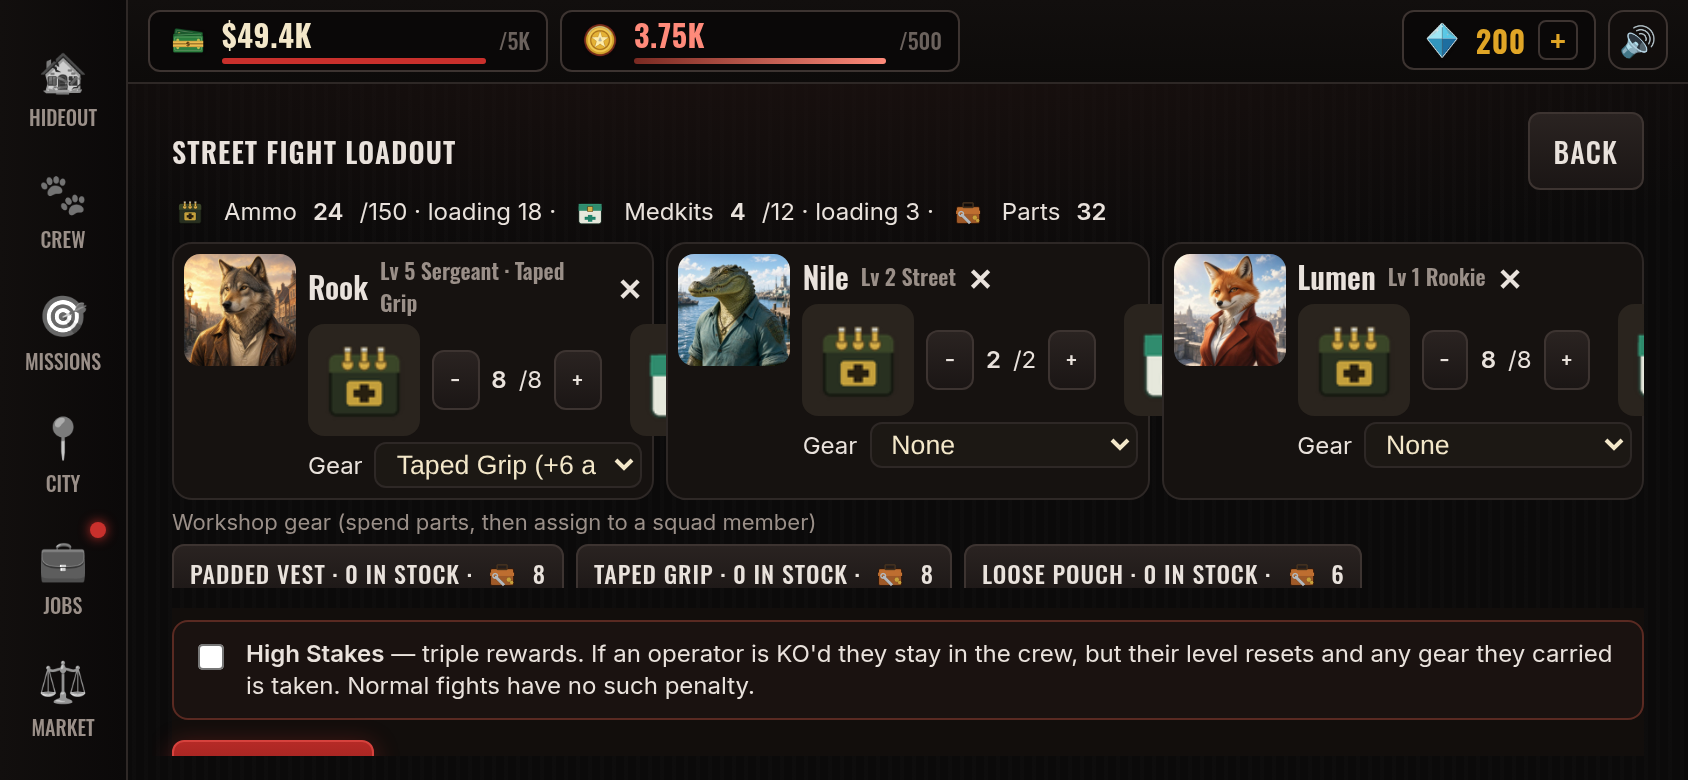
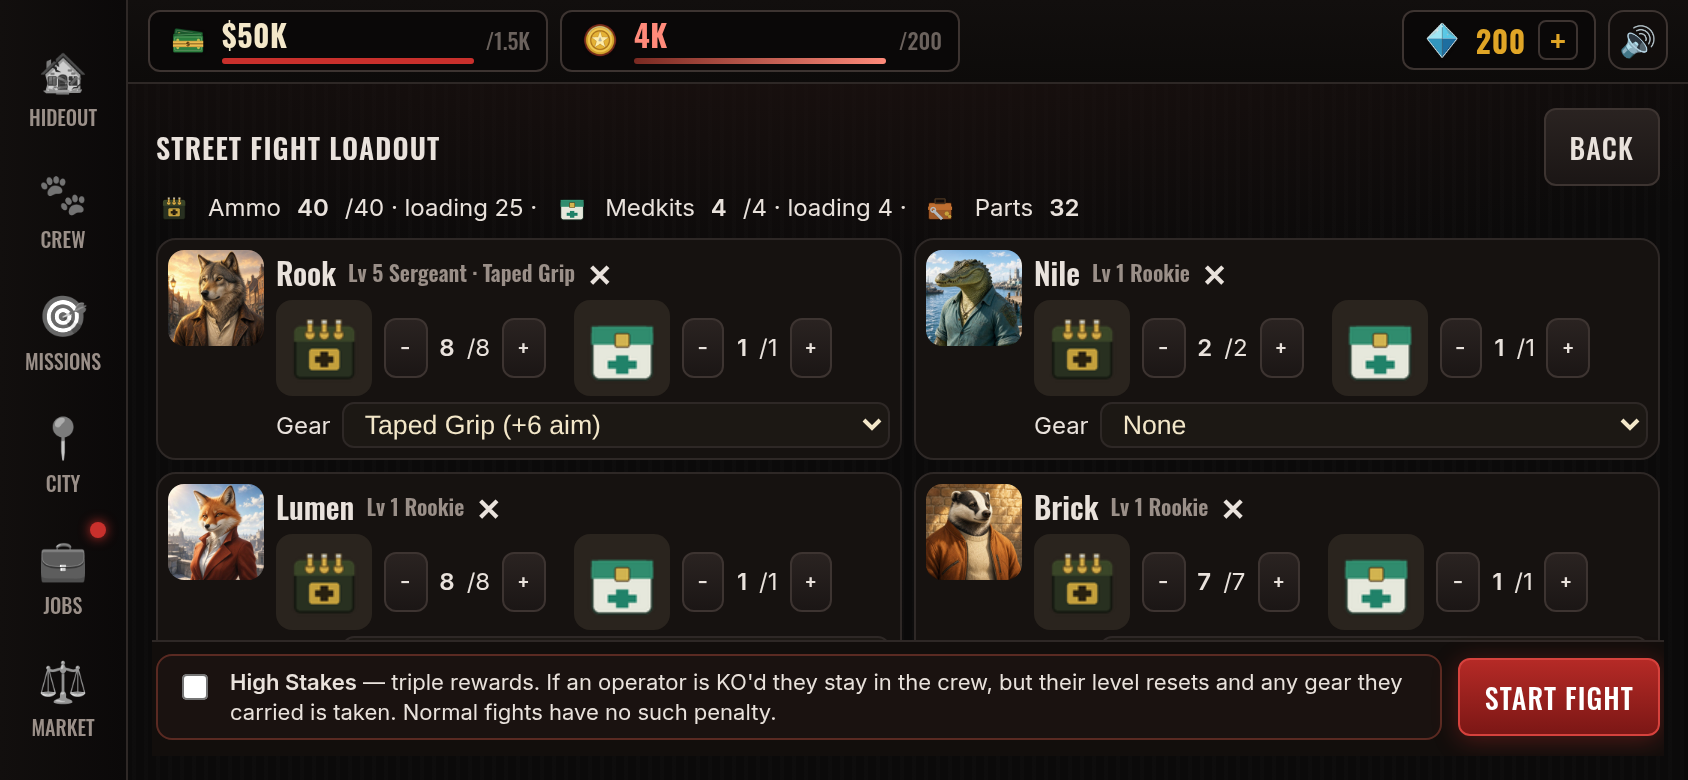
Fix loadout overflow on landscape phones
Pin the High Stakes / Start fight bar and scroll the operator and Workshop area so the action button stays fully on screen at 844x390 and 740x360. Two-column cards keep ammo and medkit controls from clipping off the right edge.

diff --git a/css/style.css b/css/style.css
@@ -512,19 +512,26 @@ table.stats td{padding:3px 4px;border-bottom:1px solid var(--line)}
 .hud-tr{display:flex;flex-direction:column;align-items:flex-end;gap:4px}
 
 /* v0.5 loadout, XP bars, High Stakes */
-.loadscr{padding:6px 10px 0;overflow:hidden;height:100%;display:flex;flex-direction:column;box-sizing:border-box}
-.loadstock{display:flex;flex-wrap:wrap;gap:8px;align-items:center;margin:2px 0 6px;font-size:12px;flex:none}
-.loadgrid{display:grid;grid-template-columns:repeat(3,minmax(0,1fr));gap:6px;flex:none;overflow:auto;grid-auto-rows:min-content}
-.loadslot{display:flex;gap:6px;background:#161210;border:1px solid var(--line);border-radius:10px;padding:5px;min-height:0;height:auto}
+.loadscr{height:100%;min-height:0;display:flex;flex-direction:column;overflow:hidden;box-sizing:border-box;padding:0}
+.loadbody{flex:1 1 auto;min-height:0;overflow-x:hidden;overflow-y:auto;padding:4px 2px 8px;scrollbar-width:thin}
+.loadstock{display:flex;flex-wrap:wrap;gap:8px;align-items:center;margin:2px 0 6px;font-size:12px}
+.loadgrid{display:grid;grid-template-columns:repeat(2,minmax(0,1fr));gap:6px;grid-auto-rows:min-content}
+.loadslot{display:flex;gap:6px;background:#161210;border:1px solid var(--line);border-radius:10px;padding:5px;min-width:0;min-height:0}
 .loadslot.empty{align-items:center;flex-wrap:wrap;gap:6px;min-height:72px}
-.loadslot img{width:56px;height:56px;object-fit:cover;border-radius:8px;background:#2a241e;flex:none}
-.loadslot .hn{display:flex;align-items:center;gap:6px;font-weight:600}
-.loadrow{display:flex;align-items:center;gap:6px;margin-top:3px;font-size:12px}
-.loadrow select{flex:1;min-width:0;background:#1c1814;color:var(--ink,#f3e7c9);border:1px solid var(--line);border-radius:6px;padding:2px 6px}
-.loadgear{margin:4px 0;flex:none;max-height:40px;overflow:auto}
-.loadfoot{display:flex;gap:10px;align-items:flex-start;margin-top:6px;padding:6px 0 8px;flex:none;background:#120e0c;z-index:2}
-.loadfoot .hstakes{flex:1;display:flex;gap:8px;align-items:flex-start;font-size:12px;line-height:1.35;background:#1a1210;border:1px solid #5a2a22;border-radius:8px;padding:8px}
+.loadslot img{width:48px;height:48px;object-fit:cover;border-radius:8px;background:#2a241e;flex:none}
+.loadslot .grow{min-width:0;flex:1}
+.loadslot .hn{display:flex;align-items:center;gap:6px;font-weight:600;min-width:0}
+.loadslot .hn .tiny{min-width:0;overflow:hidden;text-overflow:ellipsis;white-space:nowrap}
+.loadrow{display:flex;align-items:center;flex-wrap:wrap;gap:4px 6px;margin-top:3px;font-size:12px;min-width:0}
+.loadrow .btn.sm{flex:none;padding:2px 7px}
+.loadrow select{flex:1;min-width:0;max-width:100%;background:#1c1814;color:var(--ink,#f3e7c9);border:1px solid var(--line);border-radius:6px;padding:2px 6px}
+.loadgear{margin:6px 0 2px}
+.loadfoot{flex:none;display:flex;gap:8px;align-items:center;margin:0;padding:6px 2px max(8px,env(safe-area-inset-bottom));background:#120e0c;border-top:1px solid var(--line);z-index:3}
+.loadfoot .btn{flex:none;white-space:nowrap}
+.loadfoot .hstakes{flex:1;min-width:0;display:flex;gap:8px;align-items:flex-start;font-size:11px;line-height:1.3;background:#1a1210;border:1px solid #5a2a22;border-radius:8px;padding:6px 8px}
+.loadfoot .hstakes span{display:-webkit-box;-webkit-line-clamp:2;-webkit-box-orient:vertical;overflow:hidden}
 .loadfoot .hstakes.on{border-color:#c45a4a;box-shadow:0 0 0 1px #c45a4a}
+#screen:has(.loadscr){overflow:hidden}
 .hsflag{color:#e07a6a;letter-spacing:.04em}
 .xpbar{height:6px;background:#2a221c;border-radius:3px;overflow:hidden;margin:4px 0 2px;border:1px solid #3a3028}
 .xpbar i{display:block;height:100%;background:linear-gradient(90deg,#3d8f6a,#8fd18f);width:0}
@@ -534,9 +541,6 @@ table.stats td{padding:3px 4px;border-bottom:1px solid var(--line)}
 .xprow.loss{color:#e07a6a}
 .perkpick{display:flex;flex-wrap:wrap;gap:6px;margin-top:4px;align-items:center}
 .result.hstakes .h{color:#e07a6a}
-@media (max-width:900px){
-  .loadfoot{flex-direction:column}
-}
 
 .result.hstakes .big{font-size:28px;margin:2px 0}
 .result.hstakes .rewards{margin:4px 0}

diff --git a/js/ui/loadout.js b/js/ui/loadout.js
@@ -22,6 +22,7 @@ export function render(ctx) {
   const usedM = d.squad.reduce((n, id) => n + (d.medkits[id] || 0), 0);
   return `
   <div class="loadscr">
+    <div class="loadbody">
     <div class="armyhead">
       <div>
         <div class="h">${d.highStakes ? 'High Stakes loadout' : 'Street fight loadout'}</div>
@@ -46,6 +47,7 @@ export function render(ctx) {
           return `<button class="btn sm" data-act="craftKit" data-id="${id}" title="${esc(k.blurb)}">${esc(k.name)} · ${n} in stock · ${ico('parts')} ${k.cost}</button>`;
         }).join('')}
       </div>
+    </div>
     </div>
     <div class="loadfoot">
       <label class="hstakes ${d.highStakes ? 'on' : ''}">
